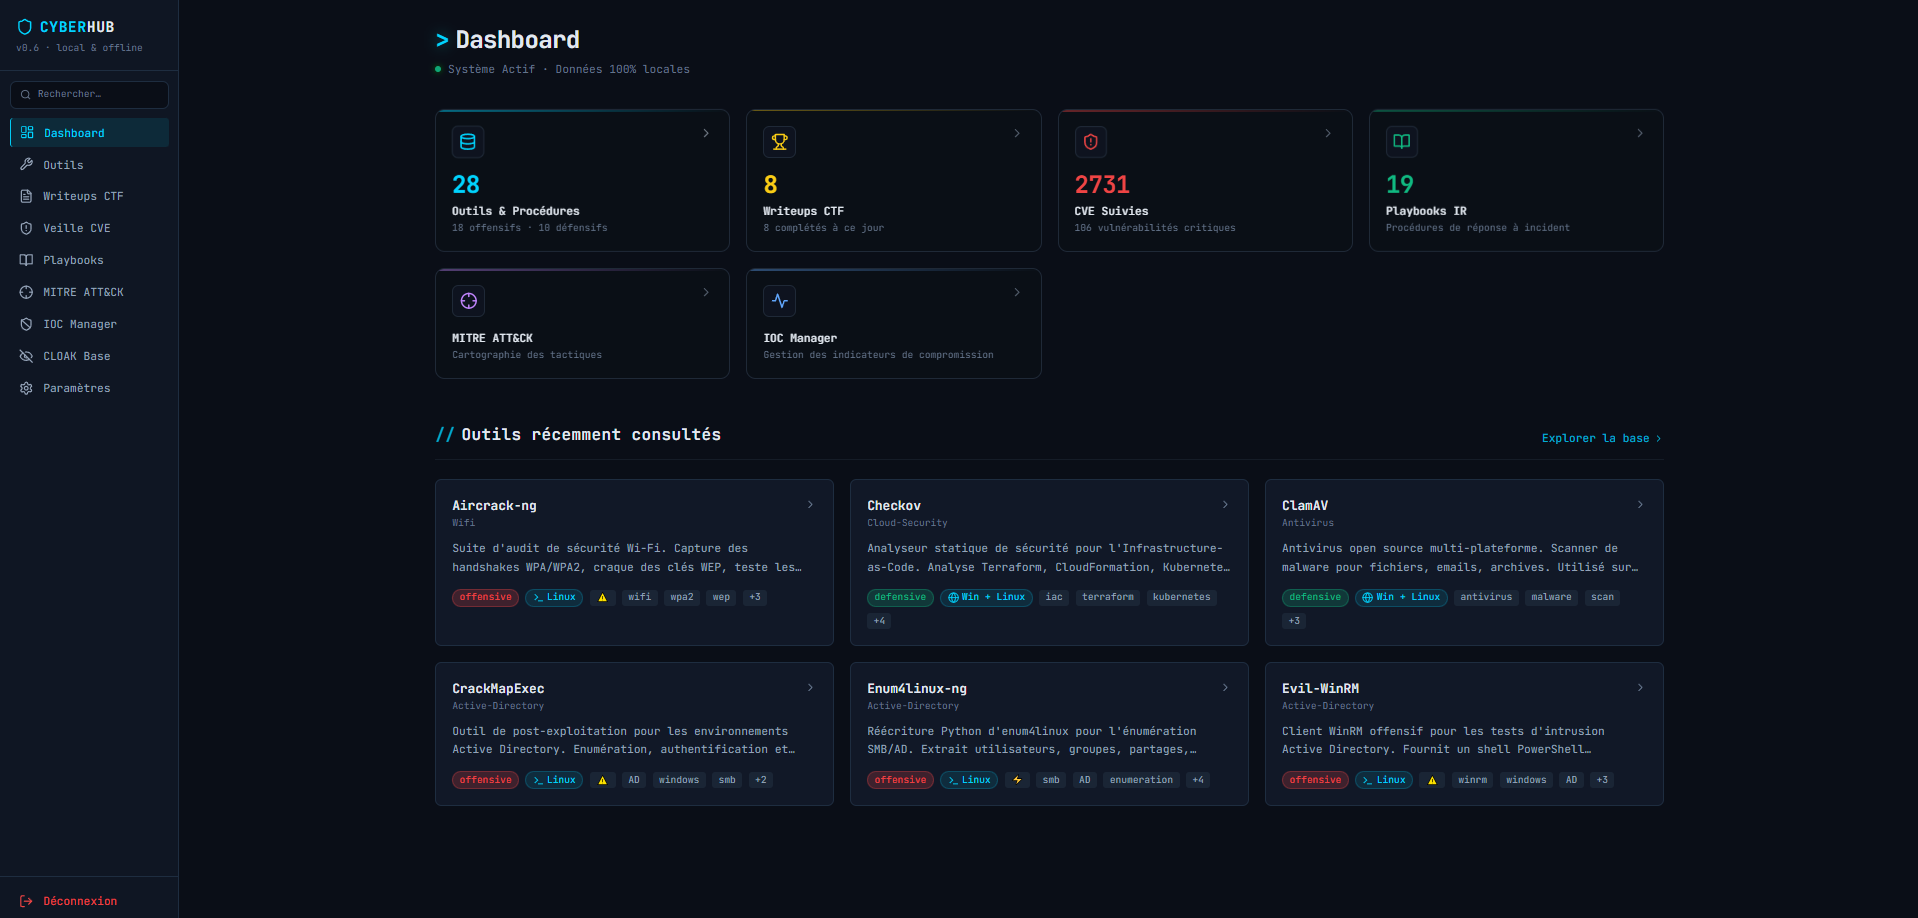
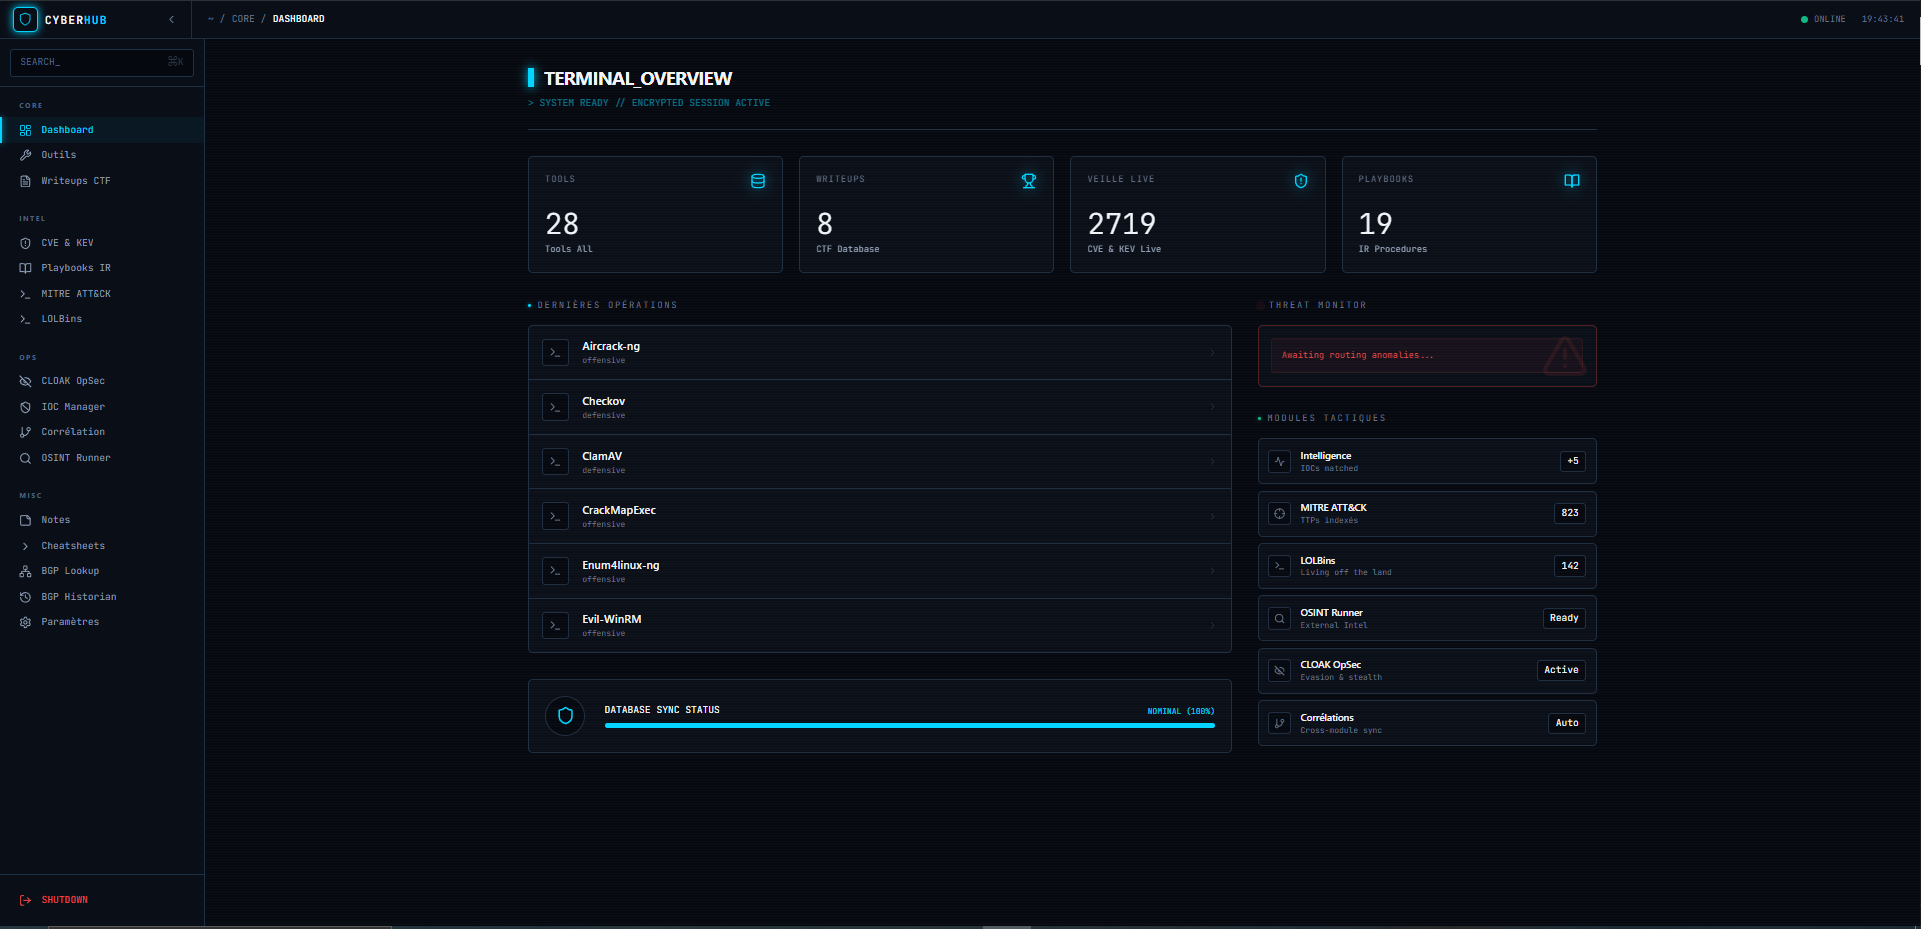
Add screenshoot new dashboard

diff --git a/README.md b/README.md
@@ -28,30 +28,6 @@ Application de bureau pour centraliser vos outils, writeups CTF, veille CVE, pla
 ### Dashboard
 ![Dashboard](./.github/screenshots/dashboard.png)
 
-### MITRE ATT&CK
-![MITRE ATT&CK](./.github/screenshots/mittreattack.png)
-
-### CLOAK OpSec
-![CLOAK](./.github/screenshots/cloak.png)
-
-### Outils
-![Outils](./.github/screenshots/outils.png)
-
-### Playbooks
-![Playbooks](./.github/screenshots/playbook.png)
-
-### Veille CVE
-![Veille CVE](./.github/screenshots/veillecve.png)
-
-### Writeups CTF
-![Writeups CTF](./.github/screenshots/writeups.png)
-
-### IOC Manager
-![IOC Manager](./.github/screenshots/ioc.png)
-
-### Paramètres
-![Paramètres](./.github/screenshots/parametres.png)
-
 ---
 
 ## Fonctionnalités
